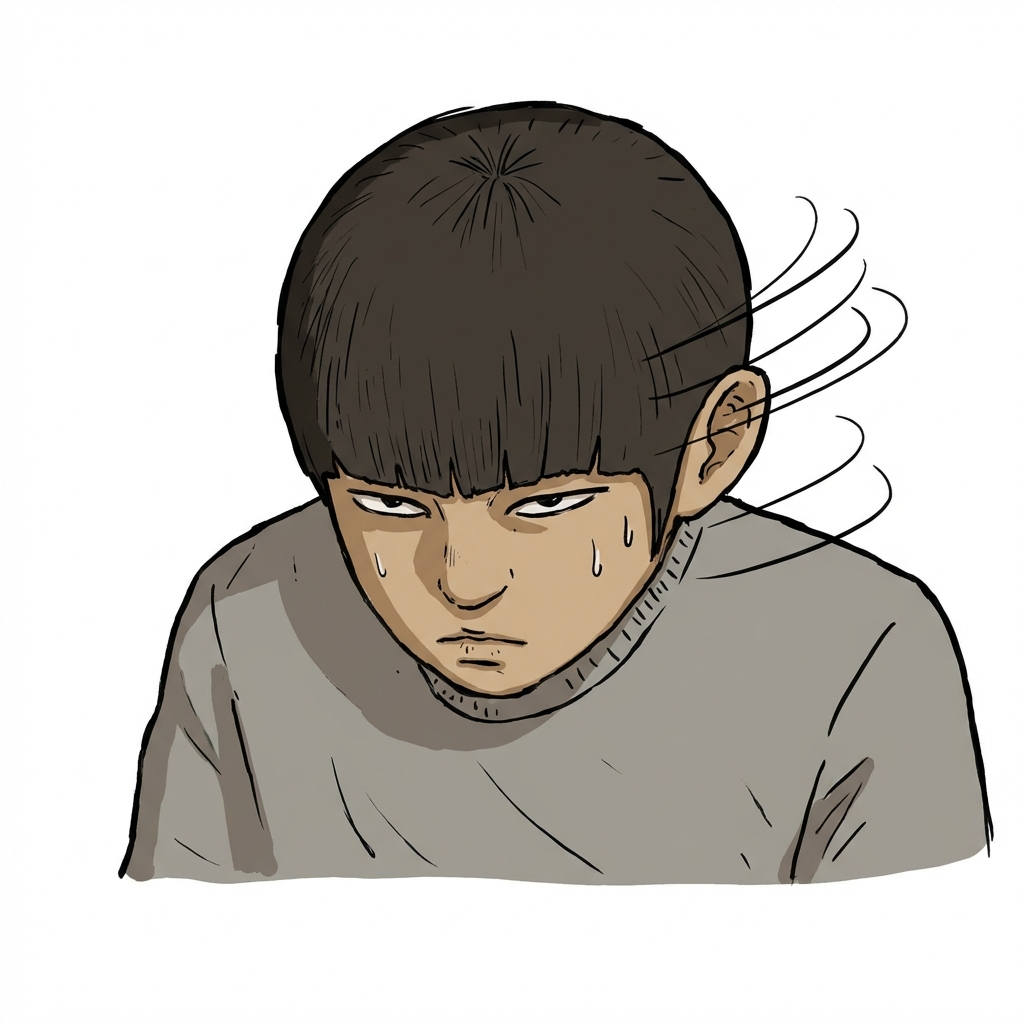
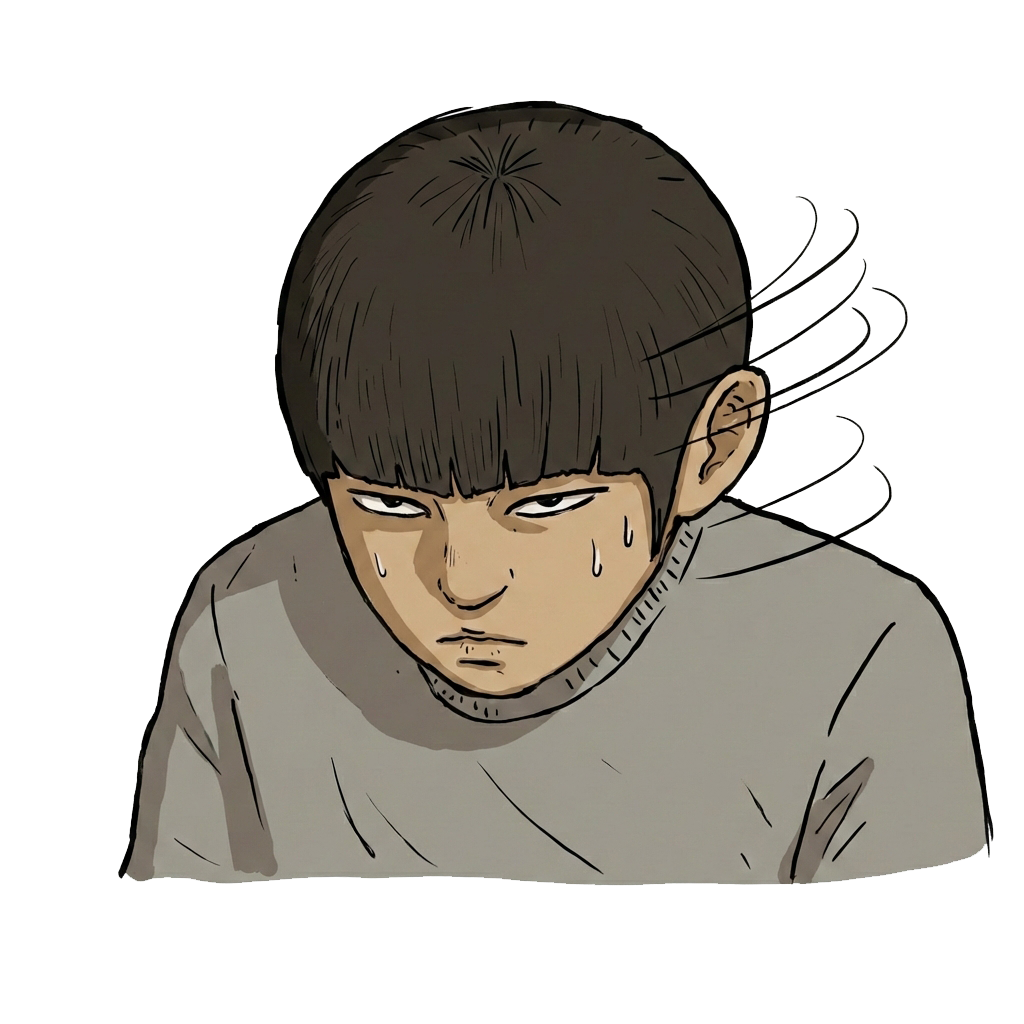
feat: 만화 컨셉의 배경 캐릭터 패널 및 스타일 최적화 적용
- 우기명, 봉지은 캐릭터를 '만화 컷(Comic Panel)' 디자인으로 감싸 시각적 분리 강화
- mix-blend-mode를 적용하여 캐릭터 이미지의 불완전한 배경 제거 및 화이트 밸런스 조정
- App.jsx 내 누락된 motion 임포트 수정 및 레이아웃 안정화

diff --git a/src/App.jsx b/src/App.jsx
@@ -1,4 +1,5 @@
 import { useEffect } from 'react';
+import { motion } from 'framer-motion';
 import { ChatContainer } from './components/ChatContainer';
 import { FloatingImages } from './components/FloatingImage';
 import { useGemini } from './hooks/useGemini';
@@ -24,30 +25,52 @@ function App() {
       <FloatingImages />
 
       {/* 우기명 & 봉지은 고정 캐릭터 (데스크탑 전용) */}
-      <div className="fixed inset-0 pointer-events-none z-0 hidden xl:block">
+      <div className="fixed inset-0 pointer-events-none z-10 hidden xl:block">
         {/* 우기명 (좌측) */}
         <motion.div
           initial={{ opacity: 0, x: -50 }}
-          animate={{ opacity: 0.7, x: 0 }}
+          animate={{ opacity: 1, x: 0 }}
           transition={{ delay: 0.5, duration: 1 }}
-          className="absolute left-[5%] bottom-[15%] w-64"
+          className="absolute left-[3%] bottom-[10%] w-72"
         >
-          <img src="/assets/gimyeong.png" alt="우기명" className="w-full h-auto filter grayscale-[30%] sepia-[0.2]" />
-          <div className="absolute -top-10 left-10 bg-white border-2 border-black px-3 py-1 text-xl transform -rotate-6 shadow-[2px_2px_0px_black]" style={{ fontFamily: "'Nanum Pen Script', cursive" }}>
-            집중하자 집중!!!
+          {/* Comic Panel Style */}
+          <div className="relative p-2 bg-white border-4 border-black shadow-[8px_8px_0px_rgba(0,0,0,0.1)] transform -rotate-2"
+            style={{ filter: 'url(#sketchy)' }}>
+            <img
+              src="/assets/gimyeong.png"
+              alt="우기명"
+              className="w-full h-auto"
+              style={{ mixBlendMode: 'multiply' }}
+            />
+            {/* Speech Bubble within Panel */}
+            <div className="absolute -top-6 -right-6 bg-yellow-300 border-2 border-black px-3 py-1 text-2xl transform rotate-6 shadow-[2px_2px_0px_black]"
+              style={{ fontFamily: "'Nanum Pen Script', cursive" }}>
+              집중하자 집중!!!
+            </div>
           </div>
         </motion.div>
 
         {/* 봉지은 (우측) */}
         <motion.div
           initial={{ opacity: 0, x: 50 }}
-          animate={{ opacity: 0.7, x: 0 }}
+          animate={{ opacity: 1, x: 0 }}
           transition={{ delay: 0.7, duration: 1 }}
-          className="absolute right-[5%] bottom-[15%] w-72"
+          className="absolute right-[3%] bottom-[10%] w-80"
         >
-          <img src="/assets/jieun.png" alt="봉지은" className="w-full h-auto filter grayscale-[30%] sepia-[0.2]" />
-          <div className="absolute -top-10 right-10 bg-white border-2 border-black px-3 py-1 text-xl transform rotate-6 shadow-[2px_2px_0px_black]" style={{ fontFamily: "'Nanum Pen Script', cursive" }}>
-            갈게 오빠.
+          {/* Comic Panel Style */}
+          <div className="relative p-2 bg-white border-4 border-black shadow-[8px_8px_0px_rgba(0,0,0,0.1)] transform rotate-2"
+            style={{ filter: 'url(#sketchy)' }}>
+            <img
+              src="/assets/jieun.png"
+              alt="봉지은"
+              className="w-full h-auto"
+              style={{ mixBlendMode: 'multiply' }}
+            />
+            {/* Speech Bubble within Panel */}
+            <div className="absolute -top-6 -left-6 bg-white border-2 border-black px-3 py-1 text-2xl transform -rotate-6 shadow-[2px_2px_0px_black]"
+              style={{ fontFamily: "'Nanum Pen Script', cursive" }}>
+              갈게 오빠.
+            </div>
           </div>
         </motion.div>
       </div>

diff --git a/src/components/ChatContainer.jsx b/src/components/ChatContainer.jsx
@@ -126,7 +126,10 @@ function EmptyState({ onSuggestionClick }) {
             src="/assets/kian84_character.png"
             alt="Kian84 Character"
             className="w-full h-full object-contain filter "
-            style={{ filter: 'drop-shadow(5px 5px 0px rgba(0,0,0,0.1))' }}
+            style={{
+              filter: 'drop-shadow(5px 5px 0px rgba(0,0,0,0.1))',
+              mixBlendMode: 'multiply'
+            }}
           />
         </div>
 
